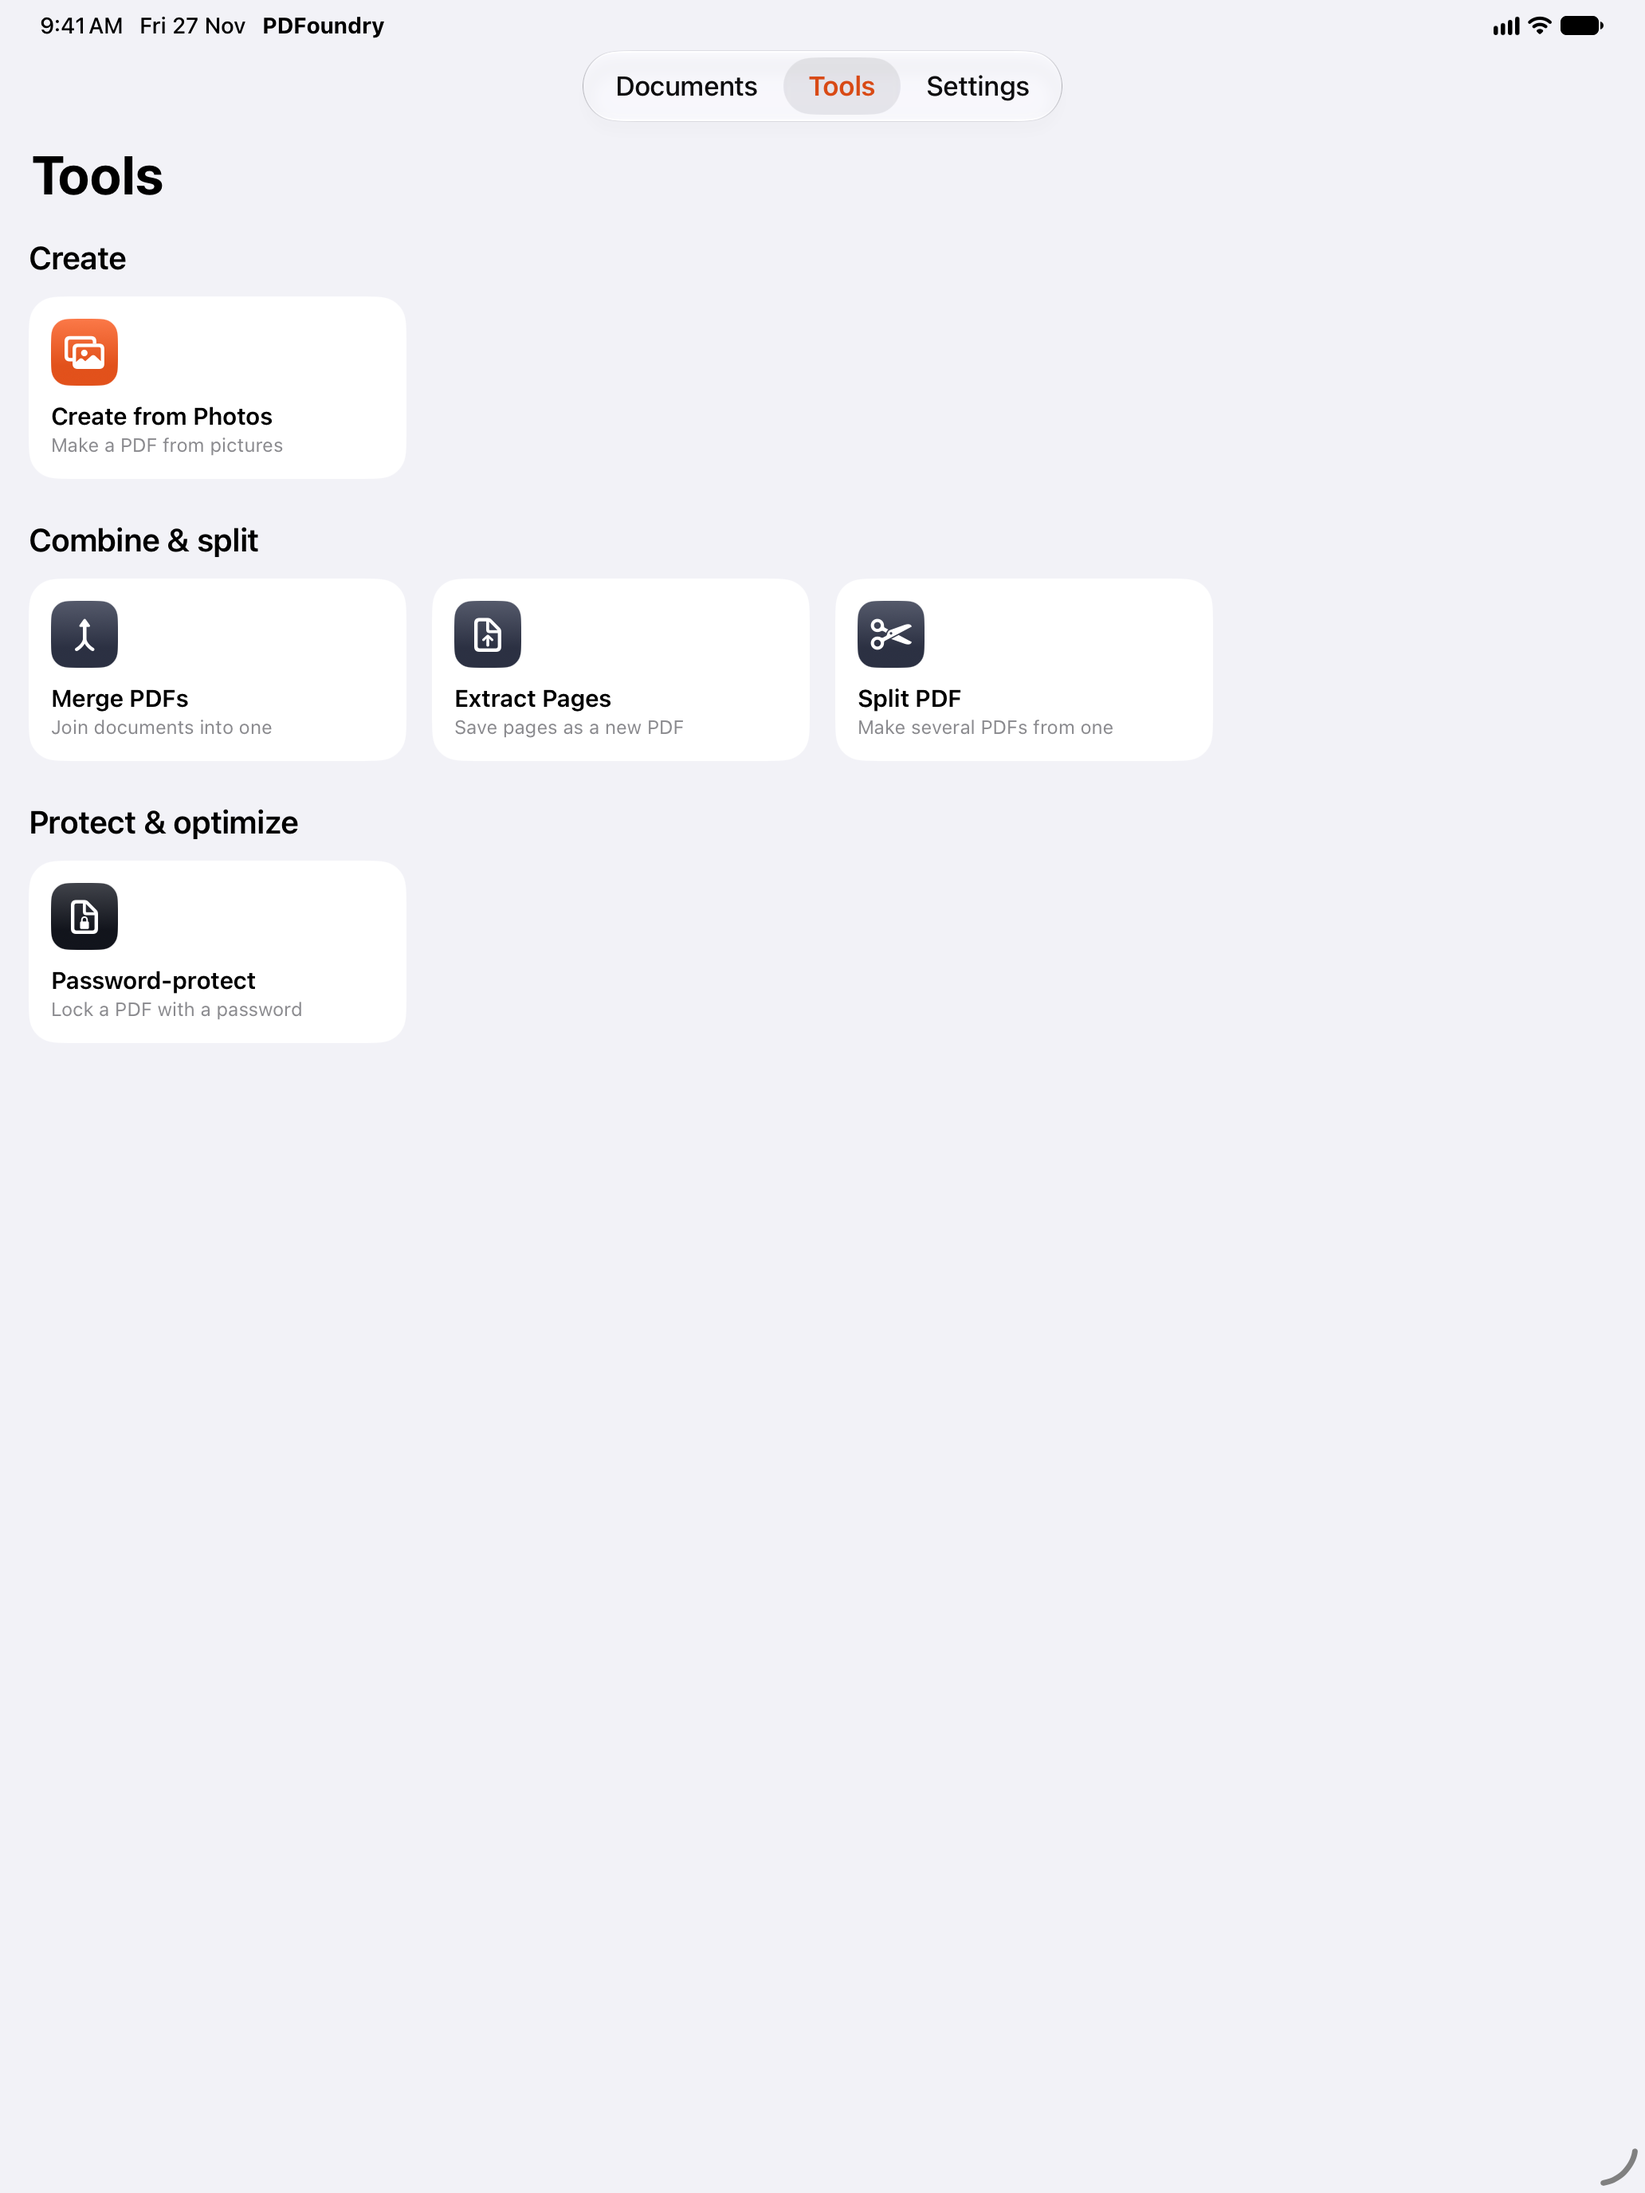
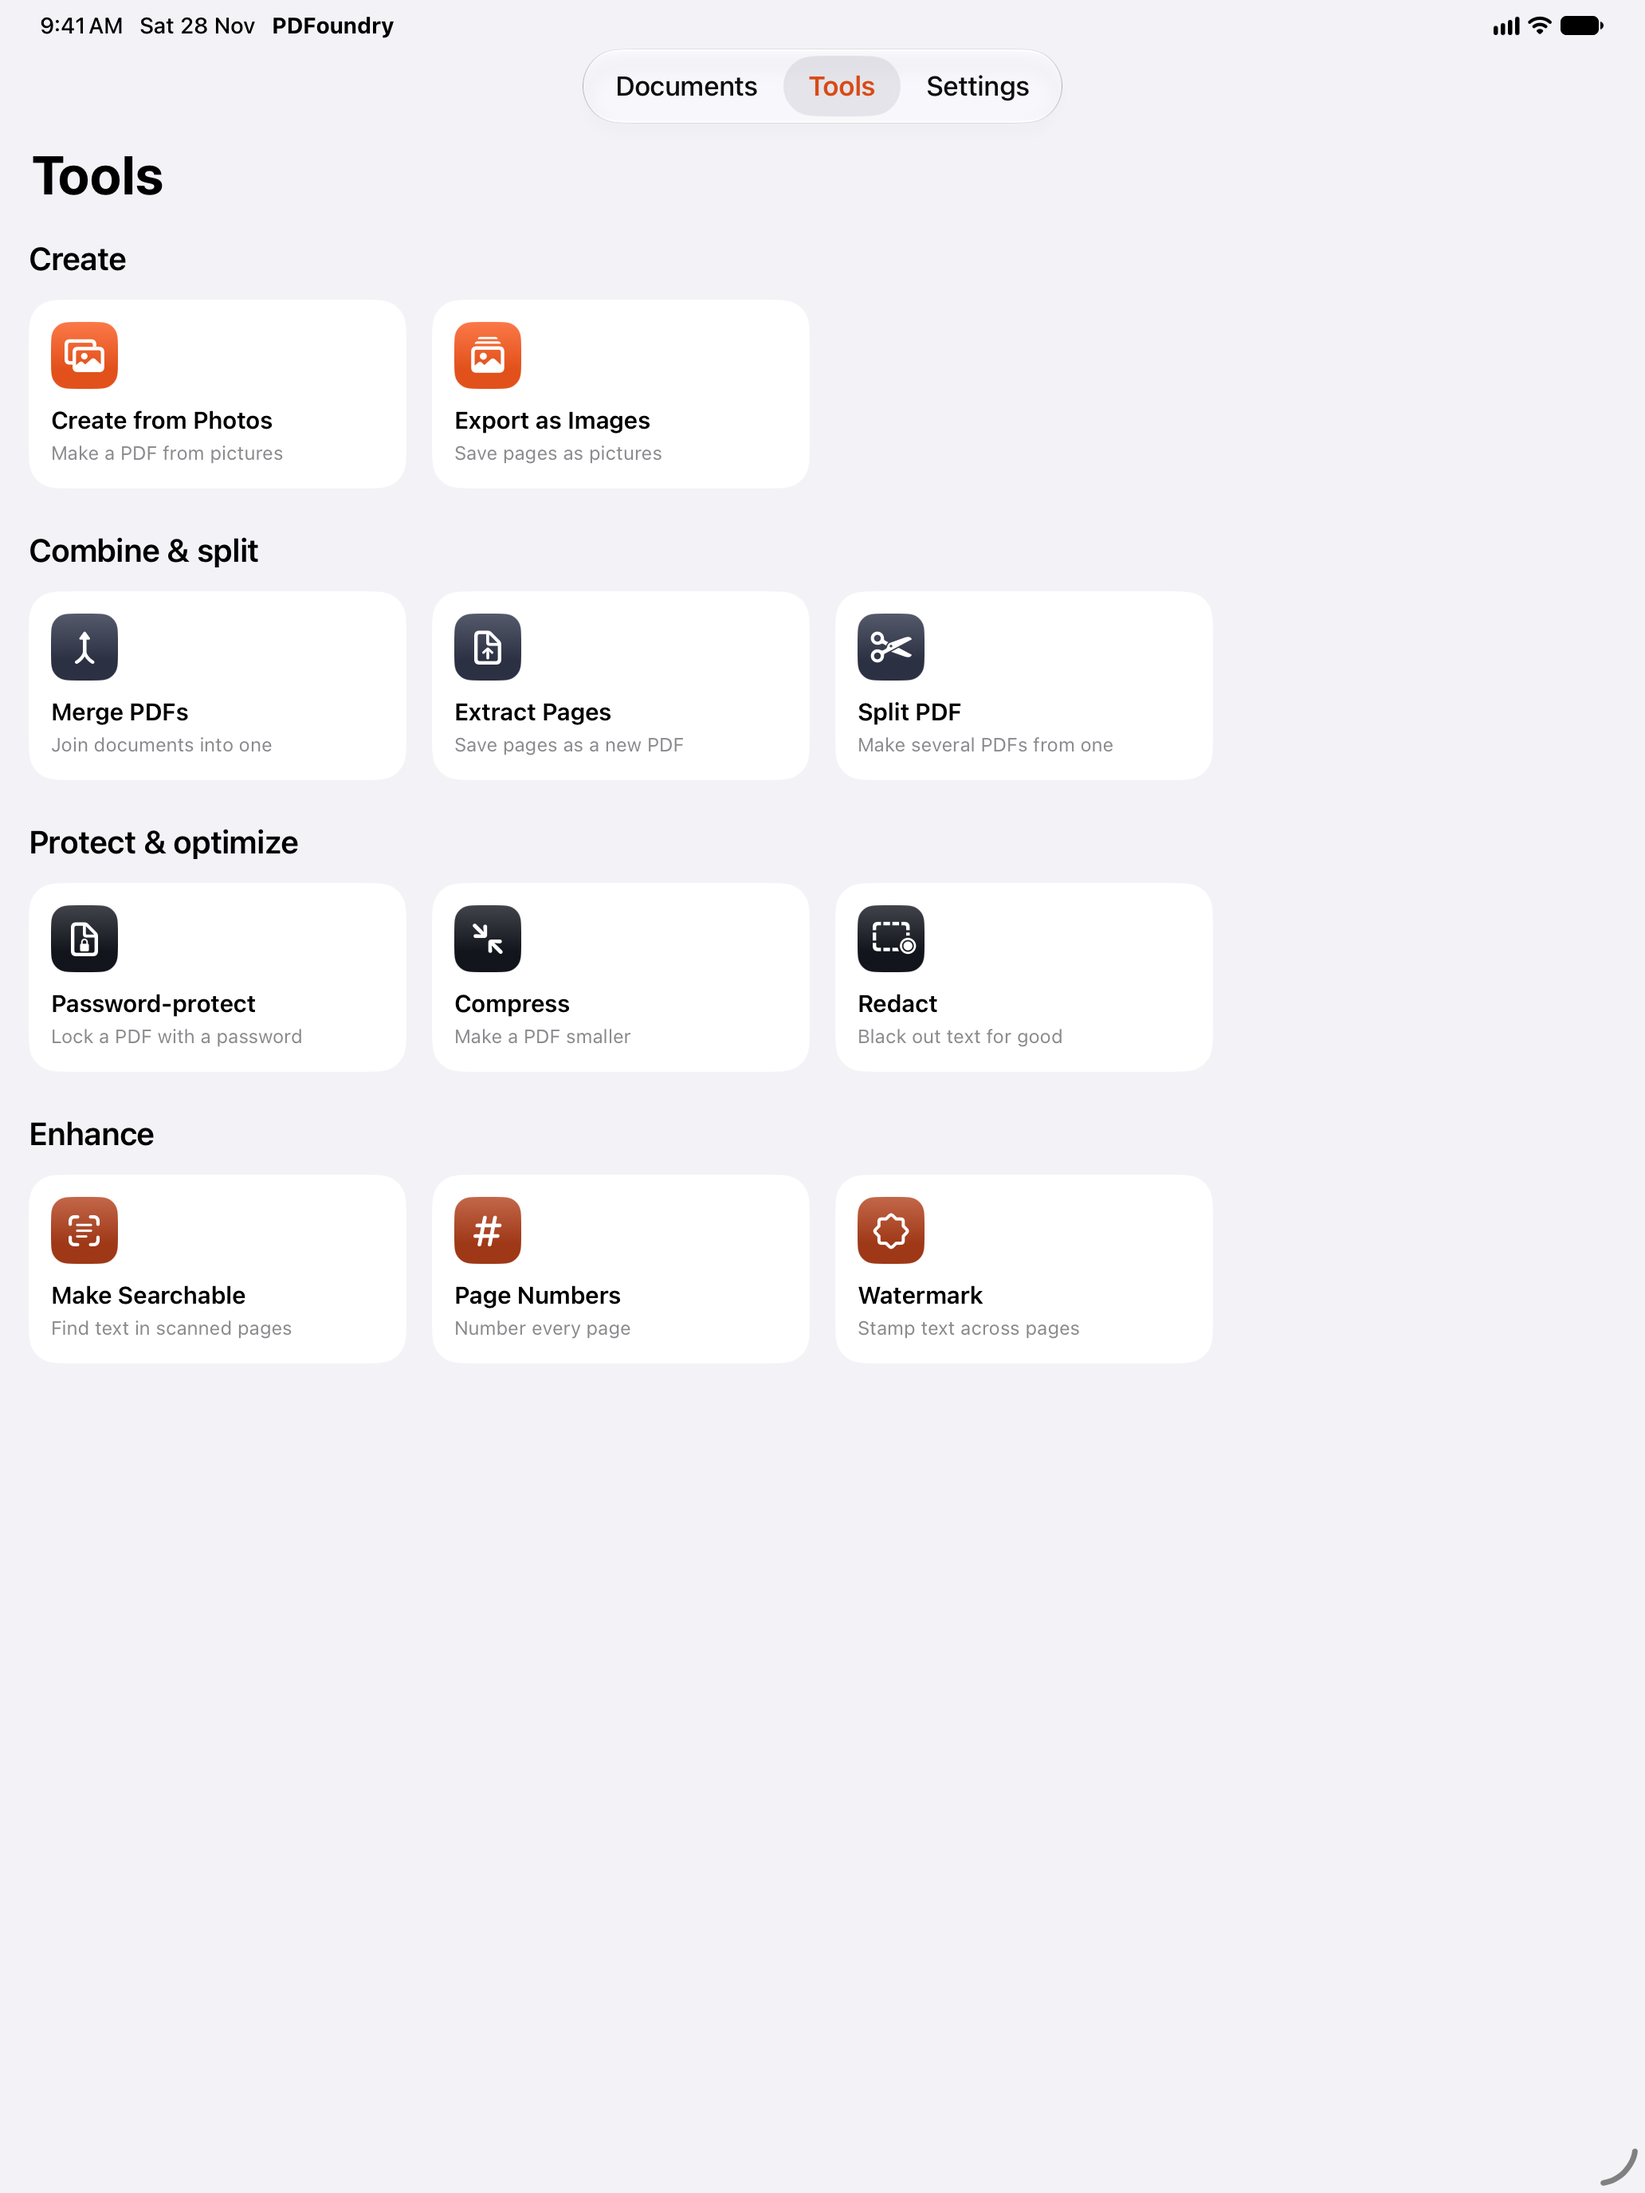
App Store screenshots for shapes, comments, redaction, watermark and the new Tools grid
iPhone 6.9": new 13-shapes-comment, 14-selected-mark, 15-redact,
16-tools-enhance, 17-watermark; 09-tools and 10-markup replaced.
iPad 13": new 13, 14, 15, 17; 07-tools replaced. Listing screenshot
order updated to the 10-per-size limit.

diff --git a/AppStore/listing-en-US.md b/AppStore/listing-en-US.md
@@ -111,29 +111,34 @@ Permissions: the camera and adding to the photo library. The system asks for the
 
 ## Screenshots (iPhone 6.9", 1320 x 2868)
 
-Upload from `screenshots/ios/iphone-6.9/` in this order:
+App Store Connect takes up to 10 per size. Upload from `screenshots/ios/iphone-6.9/` in this order:
 
 1. `01-library.png` — Your documents in one place
 2. `08-fill-sign.png` — Fill in and sign forms
-3. `10-markup.png` — Highlight and mark up
+3. `13-shapes-comment.png` — Mark up with shapes and comments
 4. `09-tools.png` — Every tool in one place
-5. `04-place-signature.png` — Place your signature exactly
-6. `05-pages.png` — Reorder, rotate and delete pages
-7. `02-merge.png` — Merge documents
-8. `11-split.png` — Split a PDF
-9. `12-protect.png` — Protect with a password
-10. `03-signature-pad.png` — Draw your signature once
+5. `15-redact.png` — Black out text for good
+6. `17-watermark.png` — Add a watermark
+7. `04-place-signature.png` — Place your signature exactly
+8. `05-pages.png` — Reorder, rotate and delete pages
+9. `02-merge.png` — Merge documents
+10. `12-protect.png` — Protect with a password
+
+Also in the folder (not uploaded): `10-markup.png` (highlight), `14-selected-mark.png` (move or resize a placed signature), `16-tools-enhance.png` (Protect & optimize and Enhance tools), `11-split.png`, `03-signature-pad.png`, `06-settings.png`, `07-about.png`.
 
 ## Screenshots (iPad 13")
 
-Upload from `screenshots/ios/ipad-13/` in this order:
+App Store Connect takes up to 10 per size. Upload from `screenshots/ios/ipad-13/` in this order:
 
 1. `01-library.png` — Your documents in one place
 2. `02-fill-sign.png` — Fill in and sign forms
-3. `07-tools.png` — Every tool in one place
-4. `04-place-signature.png` — Place your signature exactly
-5. `05-pages.png` — Reorder, rotate and delete pages
-6. `06-merge.png` — Merge documents
-7. `08-split.png` — Split a PDF
-8. `09-protect.png` — Protect with a password
-9. `03-signature-pad.png` — Draw your signature once
+3. `13-shapes-comment.png` — Mark up with shapes and comments
+4. `07-tools.png` — Every tool in one place
+5. `15-redact.png` — Black out text for good
+6. `17-watermark.png` — Add a watermark
+7. `04-place-signature.png` — Place your signature exactly
+8. `05-pages.png` — Reorder, rotate and delete pages
+9. `06-merge.png` — Merge documents
+10. `09-protect.png` — Protect with a password
+
+Also in the folder (not uploaded): `14-selected-mark.png` (move or resize a placed signature), `08-split.png`, `03-signature-pad.png`. On iPad the whole Tools grid, including Enhance, fits in `07-tools.png`, so there is no separate `16-tools-enhance.png`.
